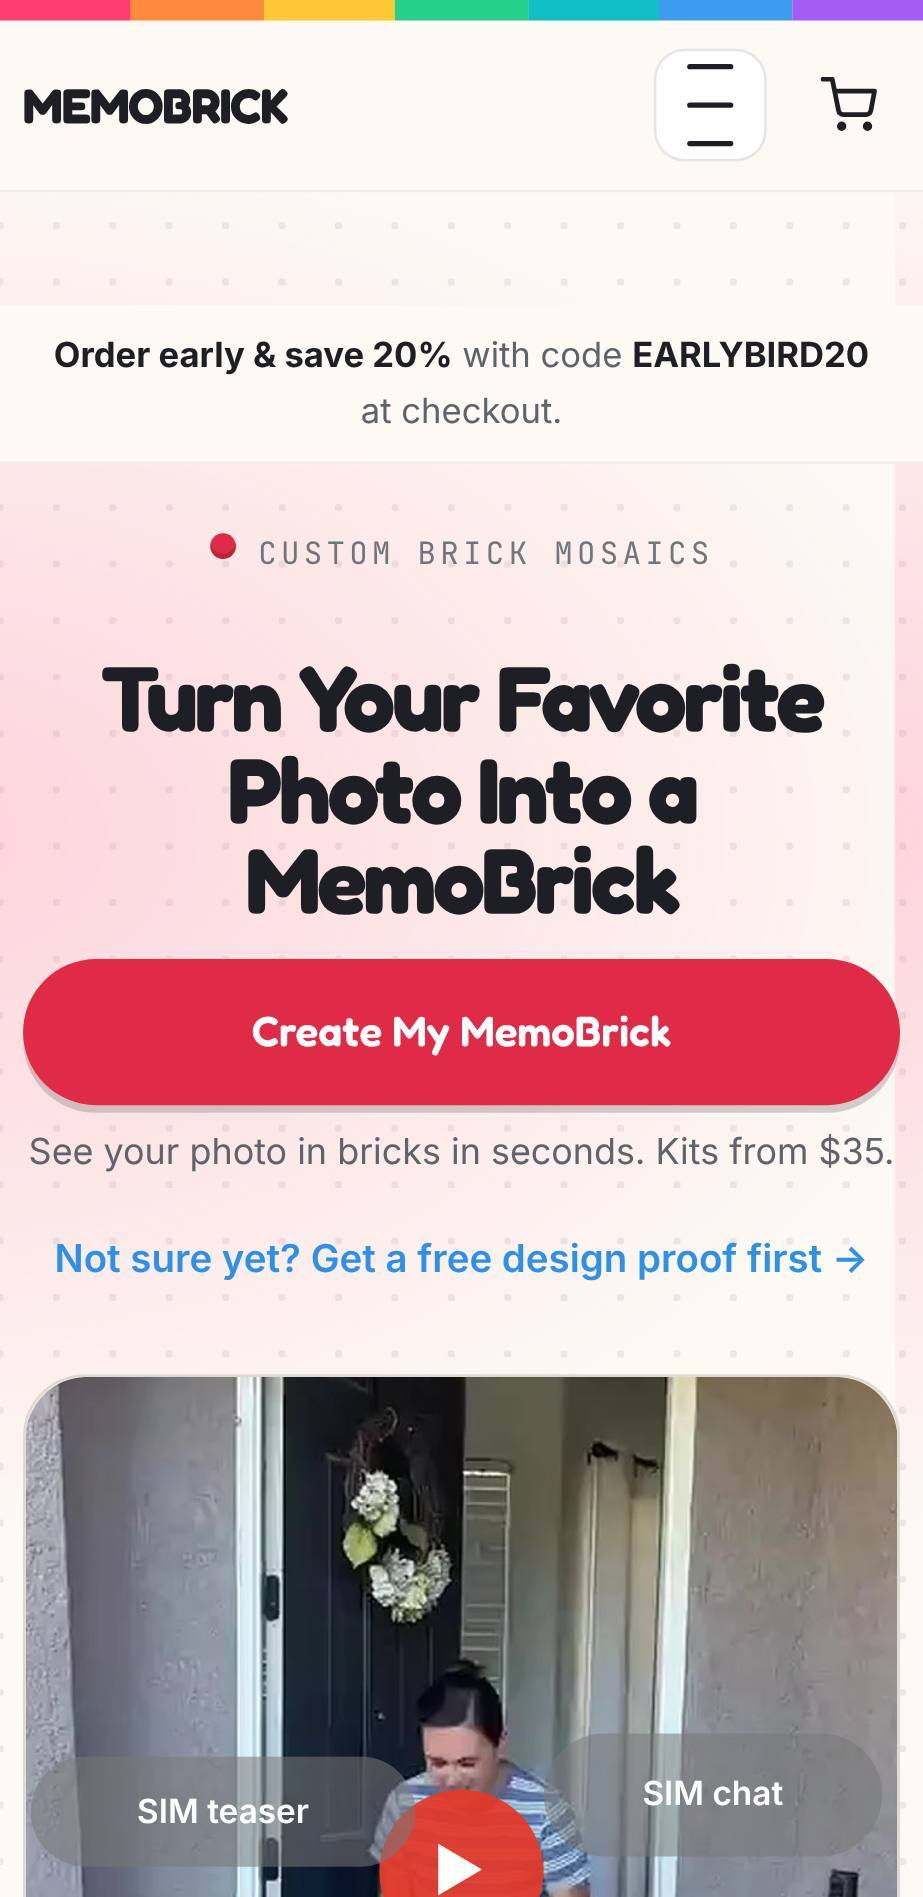
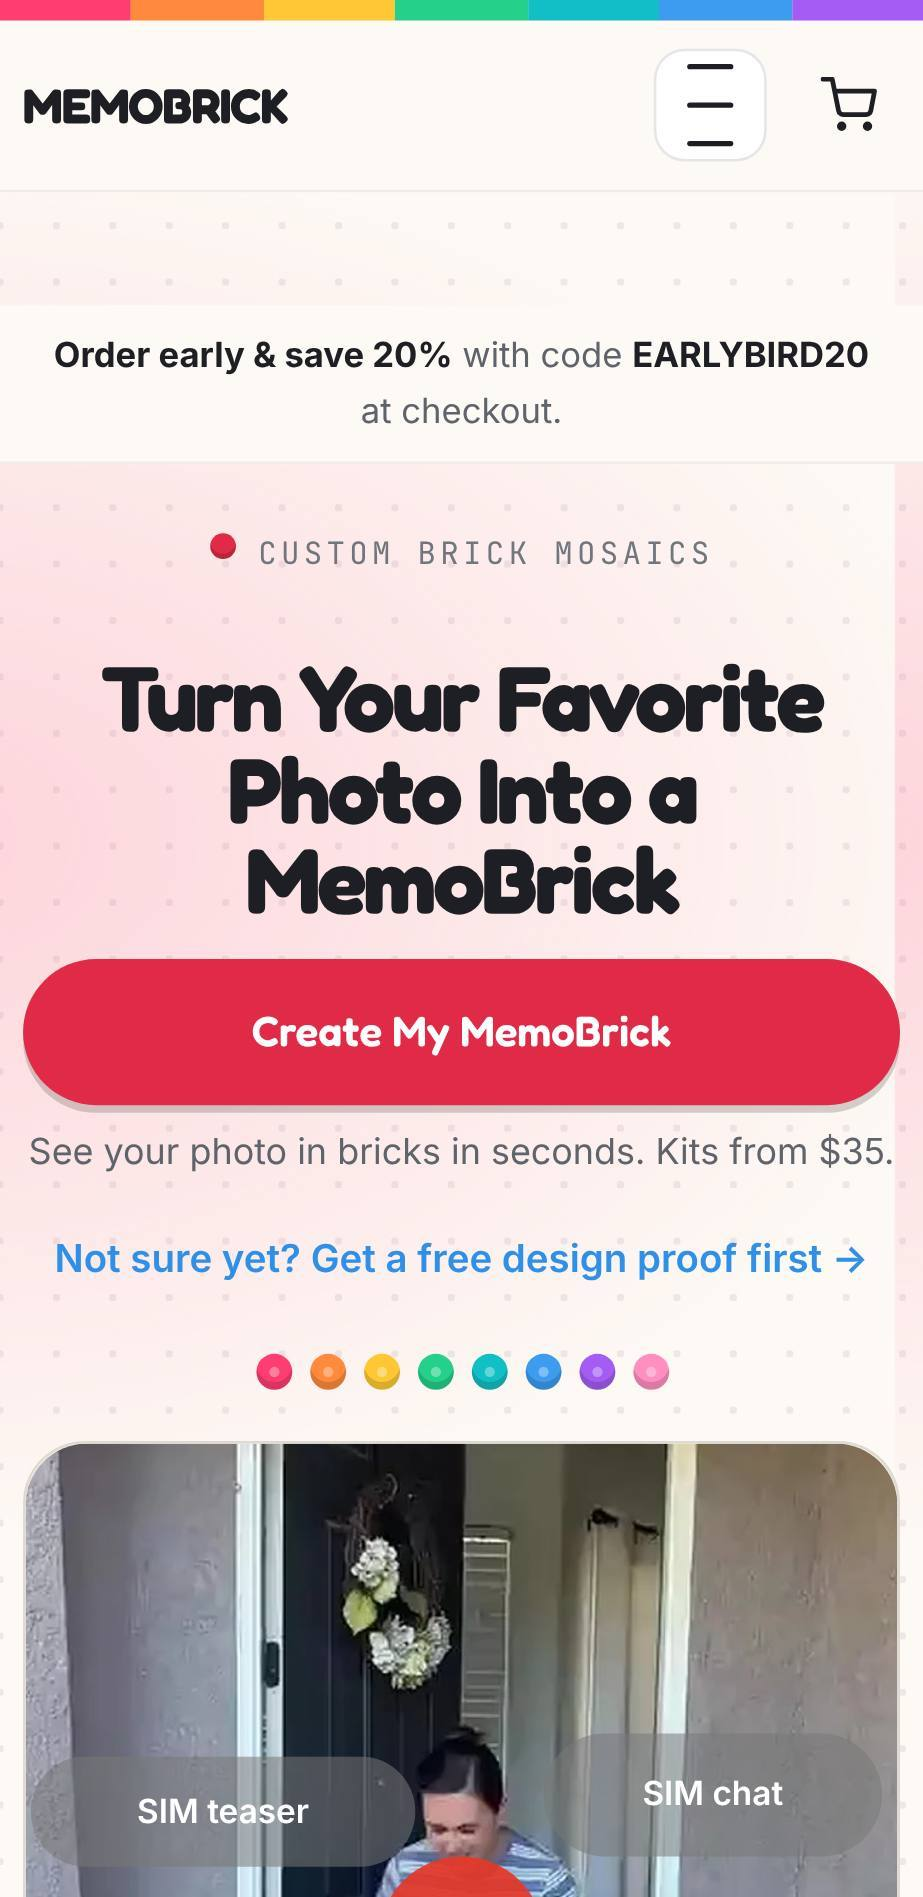
site-developer: calm phone home keeps compact dots (retested, draft updated); theme library still full, no preview copy

diff --git a/marketing/conversion/site-developer/fixes/calm-phone-home.md b/marketing/conversion/site-developer/fixes/calm-phone-home.md
@@ -1,5 +1,7 @@
 # Site fix: a calm phone home page (one main button, free-proof link always visible)
 
+**Revised 2026-10-14 at Eden's request ("keep the color dots"):** the dot row now stays on phones, smaller (14 px dots), just below the free-proof link and above the video. Everything else is as first proposed. New file md5 883ec9b9756b04c28eb971b7bb625ff9 (was 6795f9091b0a8bd9361c992806a9ab0b).
+
 Built and tested by: site-developer (Jenny), 2026-10-14
 Executor: site-developer
 Asked by: Eden, 2026-10-14, after publishing "Memobrick fixes": "I don't like how busy the website looks."
@@ -22,10 +24,10 @@ Phones and small tablets only (up to 900 px wide; the floating-bar rule up to 70
 
 | Before (phone) | After (phone) |
 |---|---|
-| Button, price line, dot row, video, second button, text, free-proof link, trust line | Button, "Kits from $35" line, **free-proof link right under it**, video (shorter), text, trust line |
+| Button, price line, dot row, video, second button, text, free-proof link, trust line | Button, "Kits from $35" line, **free-proof link right under it**, compact dot row, video (shorter), text, trust line |
 | 5 red buttons on the page plus a floating bar | **2**: the main one on the first screen and one at the end (FAQ), each with a free-proof link under it |
 | Floating "Create My MemoBrick" bar pinned to the bottom | Removed on phones, so the app bubbles no longer sit on a button |
-| Dot row | Hidden on phones |
+| Dot row of 22 px dots between price line and video | Kept, 14 px dots, centered, 16 px below the free-proof link |
 | Video up to 58% of the screen | Up to 52% (50% where the browser has no `svh`), muted autoplay loop unchanged |
 
 The "Send a photo and get a free proof" link in How it works, the size cards' own "Try this size" buttons, and the FAQ button with "Not ready yet? Get a free proof first" all stay.
@@ -33,22 +35,23 @@ The "Send a photo and get a free proof" link in How it works, the size cards' ow
 ### Exact diff against the live file (md5 809e6c2ebf0eef90eeb81352bf190c94)
 
 ```diff
-@@ -109,6 +109,23 @@
+@@ -109,6 +109,24 @@
            .wrap.hero .hero-cta-top{display:flex;flex-direction:column;align-items:stretch;order:2;gap:8px;margin:0}
            .hero .hero-cta-top .hero-cta-note{margin:0;font-size:14px;line-height:1.4;color:var(--ink-2,#5E636C);text-align:center}
          }
-+        /* Calm phone home (2026-10-14): one main button, free-proof link right under it, no dot row, shorter video, no repeated buttons. Desktop (901px+) unchanged. */
++        /* Calm phone home (2026-10-14): one main button, free-proof link right under it, compact dot row under the link, shorter video, no repeated buttons. Desktop (901px+) unchanged. */
 +        @media (max-width:900px){
 +          .wrap.hero{gap:14px}
-+          .hero .rail{display:none}
++          .hero .rail{order:4;justify-content:center;gap:7px;margin:2px 0 0}
++          .hero .rail i{width:14px;height:14px}
 +          .hero .hero-tertiary{order:3;margin:-4px 0 0;font-size:15px;line-height:1.3}
 +          .hero .hero-tertiary .linky2{display:inline-block;padding:10px 6px;min-height:44px}
-+          .hero .hero-img{order:4;margin-top:10px}
++          .hero .hero-img{order:5;margin-top:6px}
 +          .hero .hero-img video{max-height:50vh;max-height:52svh}
 +          .hero .hero-img .hero-poster{aspect-ratio:4/5;object-fit:cover;max-height:50vh;max-height:52svh}
-+          .hero .lede,.hero .lede:first-of-type{order:5;margin:6px 0 0;font-size:16px}
++          .hero .lede,.hero .lede:first-of-type{order:6;margin:6px 0 0;font-size:16px}
 +          .wrap.hero > .hero-cta:not(.hero-cta-top){display:none}
-+          .hero-trustbar{order:6;margin-top:6px}
++          .hero-trustbar{order:7;margin-top:6px}
 +          .mb-mid-cta{display:none}
 +        }
 +        @media (max-width:700px){
@@ -57,25 +60,25 @@ The "Send a photo and get a free proof" link in How it works, the size cards' ow
        </style>
        <div class="rail" aria-hidden="true"><i></i><i></i><i></i><i></i><i></i><i></i><i></i><i></i></div>
        <figure class="hero-img">
-@@ -142,7 +159,7 @@
+@@ -142,7 +160,7 @@
 -      <p style="text-align:center;margin-top:24px">
 +      <p class="mb-mid-cta" style="text-align:center;margin-top:24px">
          <a class="btn btn-red big" href="/pages/editor">See your photo in bricks</a>
-@@ -175,7 +192,7 @@
+@@ -175,7 +193,7 @@
 -      <p style="text-align:center;margin-top:24px">
 +      <p class="mb-mid-cta" style="text-align:center;margin-top:24px">
          <a class="btn btn-red big" href="/pages/editor">Create My MemoBrick</a>
 ```
 
-Full new file: `marketing/conversion/site-developer/theme-files/calm-phone-home/sections/memobrick-site.liquid`, md5 **6795f9091b0a8bd9361c992806a9ab0b**, also at
-https://github.com/mafehernandezecha-dot/memobrick/raw/5dcdbe8ec3aef530c8fa2f44389d32b0f3c11bb2/marketing/conversion/site-developer/theme-files/calm-phone-home/sections/memobrick-site.liquid
+Full new file: `marketing/conversion/site-developer/theme-files/calm-phone-home/sections/memobrick-site.liquid`, md5 **883ec9b9756b04c28eb971b7bb625ff9**, also at
+https://github.com/mafehernandezecha-dot/memobrick/raw/2b1bd9ffe21bd3388ce654ac71d5bd70cd7fd84a/marketing/conversion/site-developer/theme-files/calm-phone-home/sections/memobrick-site.liquid
 (checked: that link downloads exactly this md5).
 
 The same section renders `/pages/editor`, where the home view is hidden, so the editor is not affected. `memobrick.js` still shows/hides `#mobCta` as before; the CSS keeps it hidden on phones (no JavaScript change).
 
 ## Preview link
 
-**Not available yet.** The store already has 20 themes, Shopify's limit, so `themeDuplicate` returned no theme (tried twice, no error message, theme count unchanged). See "What Eden clicks", step 1: removing one old theme frees the slot, then I make the copy "Memobrick calm home" from the live theme, add this one file, rerun the tests on it and send `https://mymemobrick.com/?preview_theme_id=<new id>`.
+**Not available yet.** The store already has 20 themes, Shopify's limit, so `themeDuplicate` returned no theme (tried twice, no error message, theme count unchanged). After Eden's "slot free" message (relayed by the coordinator), I checked again: Shopify still lists 20 themes, "Copy of Copy of Copy of xx" (128996770012) is still there, and a third `themeDuplicate` again returned no theme. See "What Eden clicks", step 1: removing one old theme frees the slot, then I make the copy "Memobrick calm home" from the live theme, add this one file, rerun the tests on it and send `https://mymemobrick.com/?preview_theme_id=<new id>`.
 
 ## How it was tested today
 
@@ -86,11 +89,11 @@ Because no copy could be made, I tested the exact change on the live page in a t
 | Phone 390x844: main button | y = 403 | y = 383, "See your photo in bricks in seconds. Kits from $35." under it |
 | Phone 390x844: free-proof link | y = 1,432, 17 px tall, not on the first screen | y = 477, 44 px tall tap area, fully on the first screen |
 | Phone 360x740 (small phone): free-proof link | y = 1,355 | y = 468, fully on the first screen |
-| Red buttons in the home page (phone) | 5, plus the floating bar from y = 800 on | 2 (y = 383 and the FAQ one at y = 4,974), no floating bar at any scroll point |
-| Dot row (phone) | shown | hidden |
+| Red buttons in the home page (phone) | 5, plus the floating bar from y = 800 on | 2 (y = 383 and the FAQ one at y = 5,000), no floating bar at any scroll point |
+| Dot row (phone) | 22 px dots at y = 533, between price line and video | 14 px dots at y = 537 to 551, 16 px below the free-proof link (ends y = 521), above the video |
 | Hero media height (phone) | 557 px (66% of the screen, poster fallback) | 439 px (52%); the video uses the same limit |
 | Video settings | muted, autoplay, loop, playsinline | unchanged |
-| Page length (phone) | 6,183 px | 5,573 px |
+| Page length (phone) | 6,183 px | 5,599 px |
 | Sideways scroll | none (390 = 390, 360 = 360) | none (390 = 390, 360 = 360) |
 | Main button and free-proof link tappable (nothing on top) | button yes, link off screen | both yes (checked with the element at the tap point) |
 | Main button and free-proof link under the app bubbles | | no overlap on the first screen with grey placeholders at the teaser's and chat's real positions (bottom-left 12 px, bottom-right 16 px) |

diff --git a/marketing/reports/2026-10-14-site-developer.md b/marketing/reports/2026-10-14-site-developer.md
@@ -1,7 +1,7 @@
 # site-developer 2026-10-14
 
 ## Summary
-Eden published "Memobrick fixes", so the 5 approved fixes are live (checksums confirmed). She finds the phone home page busy: I built and tested a calm phone home (one main button with "Kits from $35", free-proof link right under it on the first screen, no dot row, shorter video, 2 red buttons instead of 5 plus a floating bar). Desktop unchanged.
+Eden published "Memobrick fixes", so the 5 approved fixes are live (checksums confirmed). She finds the phone home page busy: I built and tested a calm phone home (one main button with "Kits from $35", free-proof link right under it on the first screen, compact dot row (kept at Eden's request), shorter video, 2 red buttons instead of 5 plus a floating bar). Desktop unchanged.
 No preview link yet: the store is at Shopify's 20-theme limit, so a copy cannot be made until Eden removes one old theme. Proposed as one site-change; Omnisend teaser and Inbox chat settings are Eden's steps.
 
 ## Done
@@ -14,6 +14,8 @@ Third run today (live run at the owner's request after she published). Earlier r
 - Built the fix: one file, `sections/memobrick-site.liquid` (new md5 6795f9091b0a8bd9361c992806a9ab0b), phone-only CSS in the hero's existing style block plus a class on two button paragraphs. Backup of the live file (byte-identical, 809e6c2e...) in `backups/2026-10-14-calm-phone-home/`.
 - Tested the exact change on the live page in a test browser (same CSS and classes added before render, nothing changed on the site) at 390x844, 360x740 and 1440x900: main button y = 383 with "Kits from $35"; free-proof link y = 477, 44 px tap area, fully on the first screen (360x740: y = 468); 2 red buttons on the phone page; no floating bar at any scroll point; dot row hidden; hero media 439 px (52%); video still muted autoplay loop; no sideways scroll; button and link tappable and clear of the bubbles' positions; free-proof link opens the free-proof view; button starts navigation to /pages/editor; desktop positions and height unchanged. Results and screenshots: `2026-10-14-calm-phone-home/`, test tool `tools/calm-home-test.mjs`.
 - Draft with diff, test table, Eden's clicks, app steps and undo: `marketing/conversion/site-developer/fixes/calm-phone-home.md`.
+- **Revision (Eden: "keep the color dots"):** the dot row now stays on phones, 14 px dots centered just below the free-proof link and above the video; all other changes kept. New md5 883ec9b9756b04c28eb971b7bb625ff9 (commit 2b1bd9f). Retested at 390x844, 360x740 and 1440x900: button y = 383 with "Kits from $35"; proof link y = 477 to 521, fully on the first screen and tappable; dots y = 537 to 551; 2 red buttons; no floating bar; no sideways scroll; desktop unchanged. After-screenshots and `test-results.json` refreshed; the draft and its diff updated. P-site-developer-20261014-3 is unchanged apart from the draft content.
+- **"Slot free" relay:** Shopify still lists 20 themes (the 2021 "Copy of Copy of Copy of xx", 128996770012, is still there), and a third `themeDuplicate` again returned no theme. No copy and no preview link yet.
 
 ## Proposed for approval
 
@@ -38,7 +40,7 @@ Third run today (live run at the owner's request after she published). Earlier r
 The free-proof link moves from 1.7 screens down to the first screen, right under the button: free-proof sales are 4 against 67 last year, and this is the top entry to that offer on the most visited page. The phone home page adds to cart at 6.6% against 12.5% last year; one clear action on a calmer screen with nothing covering it should help. Trade-off: the floating button bar goes away on phones; if phone home-to-editor clicks drop more than 10% in 14 days it comes back in a smaller form. Follow-up for the five fixes that went live today starts now (referred sessions only, baselines in each draft), first reading in 7 days.
 
 ## Next run
-If Eden freed a theme slot: recheck live id, updatedAt and the live md5 of `sections/memobrick-site.liquid`, duplicate the live theme as "Memobrick calm home", upsert the file from commit 5dcdbe8 (md5 6795f909...), compare the copy with live, rerun the tests on the preview with `node tools/calm-home-test.mjs after <dir> <new id>` and send the preview link. Run `verify-bundle.mjs live` and `prodesign-size.mjs live` for the five fixes now live and save after-screenshots.
+If Eden freed a theme slot: recheck live id, updatedAt and the live md5 of `sections/memobrick-site.liquid`, duplicate the live theme as "Memobrick calm home", upsert the file from commit 2b1bd9f (md5 883ec9b9...), compare the copy with live, rerun the tests on the preview with `node tools/calm-home-test.mjs after <dir> <new id>` and send the preview link. Run `verify-bundle.mjs live` and `prodesign-size.mjs live` for the five fixes now live and save after-screenshots.
 
 ## Second run (kept as written; the owner then published "Memobrick fixes")
 

diff --git a/marketing/conversion/site-developer/working-theme.md b/marketing/conversion/site-developer/working-theme.md
@@ -7,8 +7,8 @@
 | Live theme (MAIN) | "Memobrick fixes", id 188683092188, published by Eden on 2026-10-14 (theme updatedAt 2026-10-14T07:17:21Z) |
 | Live files of the 5 approved fixes | checked by checksum: memobrick.js 88f83c4a454dcf58bc1d9c1118777f77, memobrick-email-gate.js 851b9041af3a1e33c16102520c3b92e9, memobrick-site.liquid 809e6c2ebf0eef90eeb81352bf190c94, cart.liquid 498326618234d9f98c771afe82477a15 (A-2026W42-009, -010, -013, -021, -022 are live) |
 | Undo theme | "memobrick-theme-v27-print-8mm", id 188646719708, UNPUBLISHED. Never change or delete it |
-| Working copy | **none.** The store has 20 themes (Shopify's limit), so `themeDuplicate` returns no theme. Waiting for Eden to remove one old theme (step 1 in `fixes/calm-phone-home.md`) |
-| Next copy | name "Memobrick calm home", duplicated from the live theme 188683092188, plus `sections/memobrick-site.liquid` from `theme-files/calm-phone-home/` (md5 6795f9091b0a8bd9361c992806a9ab0b) |
+| Working copy | **none.** The store has 20 themes (Shopify's limit), so `themeDuplicate` returns no theme. Waiting for Eden to remove one old theme; after her "slot free" message Shopify still listed 20 themes and duplicate still failed (step 1 in `fixes/calm-phone-home.md`) |
+| Next copy | name "Memobrick calm home", duplicated from the live theme 188683092188, plus `sections/memobrick-site.liquid` from `theme-files/calm-phone-home/` (md5 883ec9b9756b04c28eb971b7bb625ff9, commit 2b1bd9f, with the dot row kept) |
 
 Before making the copy: recheck the live theme id and updatedAt, and that live `sections/memobrick-site.liquid` is still 809e6c2ebf0eef90eeb81352bf190c94. If it changed, rebuild the calm-home edit on the new file.
 
